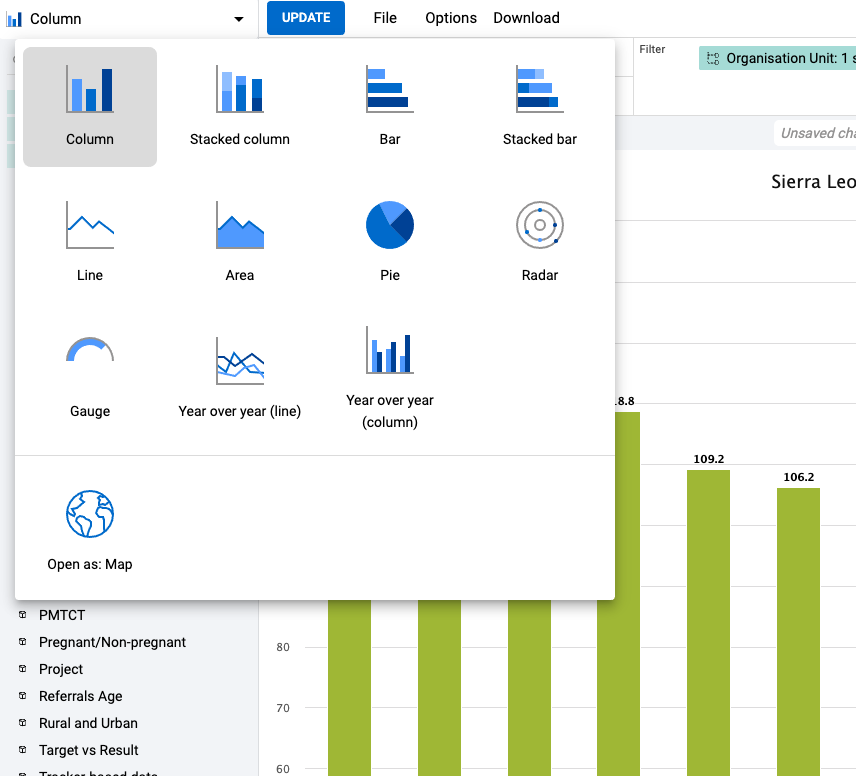
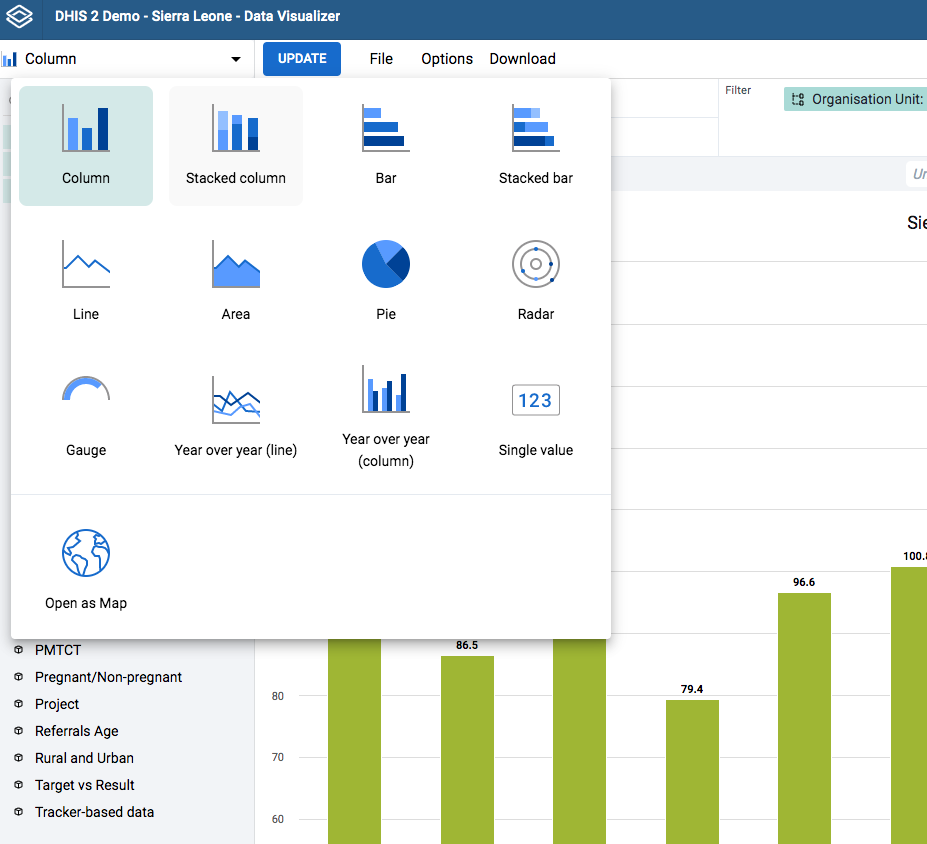
docs: update DV screenshots to show single value viz type

diff --git a/src/commonmark/en/content/user/data-visualizer.md b/src/commonmark/en/content/user/data-visualizer.md
@@ -2,18 +2,18 @@
 
 <!--DHIS2-SECTION-ID:data_visualizer-->
 
-## Creating and editing charts
+## Creating and editing visualizations
 
-When you open the data-visualizer app from the dhis2 menu, you are presented with a blank slate and you can start creating your chart right away.
+When you open the data-visualizer app from the dhis2 menu, you are presented with a blank slate and you can start creating your visualization right away.
 
 ![](resources/images/data-visualizer/data-visualizer-new.png)
 
-Select the desired chart type from the selector in the upper left corner:
+Select the desired visualization type from the selector in the upper left corner:
 
-![](resources/images/data-visualizer/data-visualizer-chart-type.png)
+![](resources/images/data-visualizer/data-visualizer-visualization-type.png)
 
 From the dimension menu on the left you can select the dimension you want
-to show in your chart, including data, period, organisation units and
+to show in your visualization, including data, period, organisation units and
 dynamic dimensions.
 
 ![](resources/images/data-visualizer/data-visualizer-dimensions.png)
@@ -33,23 +33,23 @@ In the axis management dialog you can assign data items to the two axes.
 
 ![](resources/images/data-visualizer/data-visualizer-axis-management-dialog.png)
 
-## Viewing chart interpretations
+## Viewing visualization interpretations
 
-When viewing a chart, you can expand the interpretations on the right
+When viewing a visualization, you can expand the interpretations on the right
 side by clicking on the Interpretations button in the upper right corner.
-The chart description will also be shown. The description suppots rich text format.
+The visualization description will also be shown. The description suppots rich text format.
 
-To view the chart according to the date of a particular interpretation,
-click on the interpretation or its "View" button. This will regenerate the chart with the
-relevant date, which is indicated next to the chart title.
+To view the visualization according to the date of a particular interpretation,
+click on the interpretation or its "View" button. This will regenerate the visualization with the
+relevant date, which is indicated next to the visualization title.
 
 ![](resources/images/data-visualizer/data-visualizer-view-interpretation.png)
 
 Clicking on "Back to all interpretations" or the "Exit View" button inside the interpretations panel will clear the
-interpretation and regenerate the chart with the current date.
+interpretation and regenerate the visualization with the current date.
 
-## See chart as map
+## See visualization as map
 
-Sometimes it can be useful to see how visualization would look like on map. To achieve this you can select "Open as: Map" chart type after you build your chart.
+Sometimes it can be useful to see how visualization would look like on map. To achieve this you can select "Open as: Map" visualization type after you build your visualization.
 
 ![](resources/images/data-visualizer/data-visualizer-open-as-map.png)
